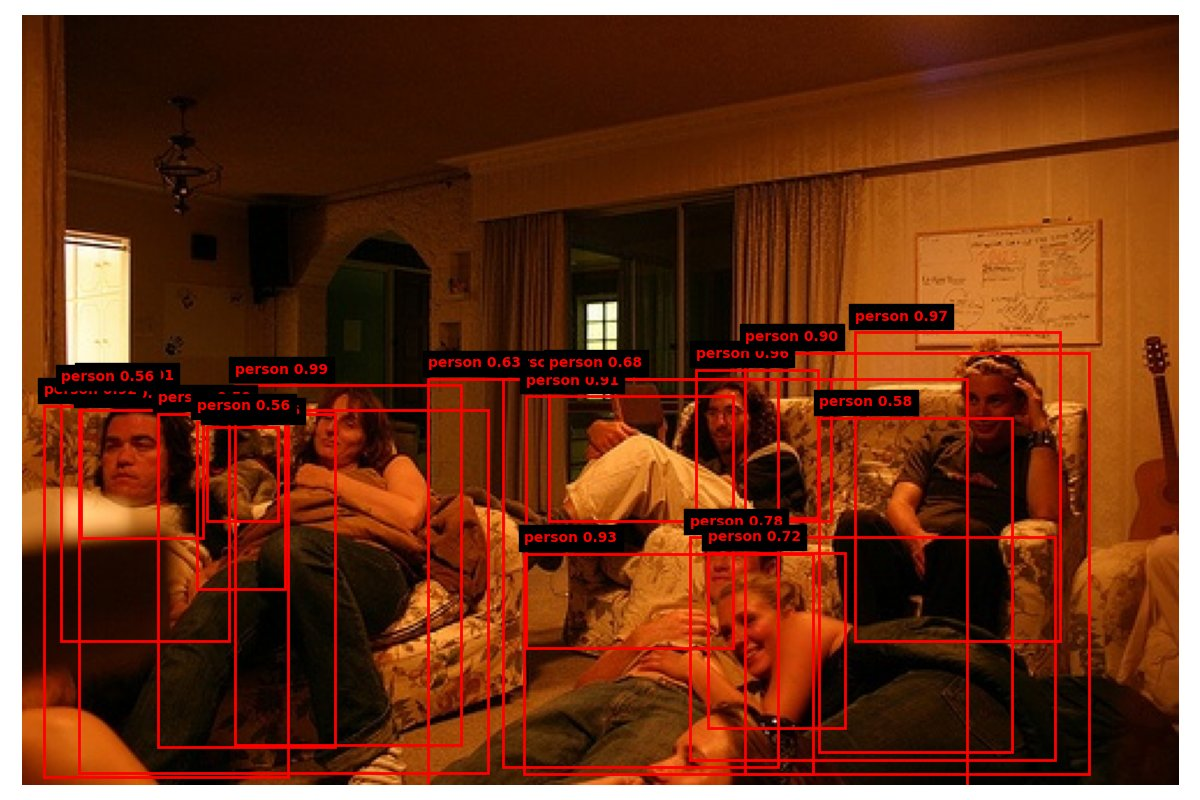
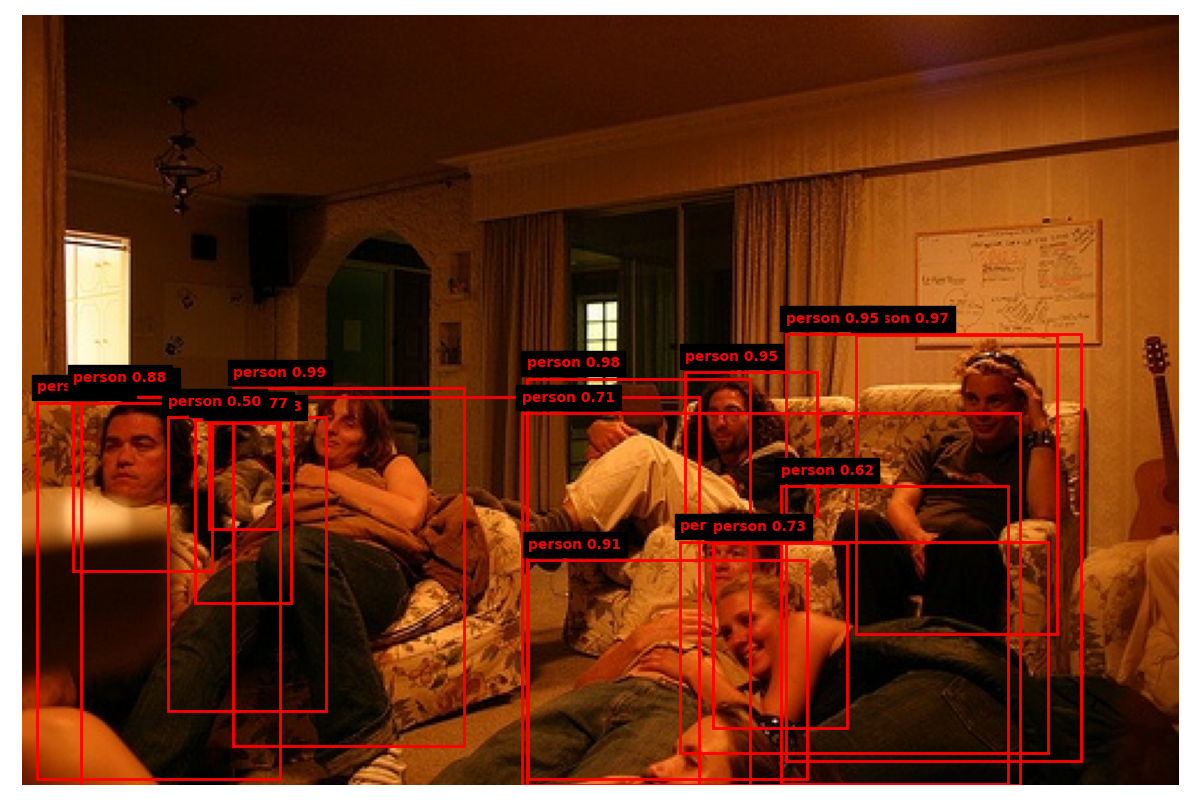
gentle aug + report Inferencepython Inference.py --image_index 10 --checkpoint checkpoints/voc2012_gentle_aug_epoch_13.pth --soft_nms --save_name fig2d_gentle_aug.png

Changed region(s): [[0.0, 0.375, 0.925, 1.0]]

diff --git a/Inference.py b/Inference.py
@@ -32,7 +32,7 @@ def load_model(checkpoint_path, num_classes, device):
     return model
 
 # SECTION 5: Load image
-# This is where the two approaches split
+# TWO APPROACHES: Own image / Dataset Image
 def load_image(image_path, root, image_index):
     if image_path is not None:
         # Approach B — your own image
